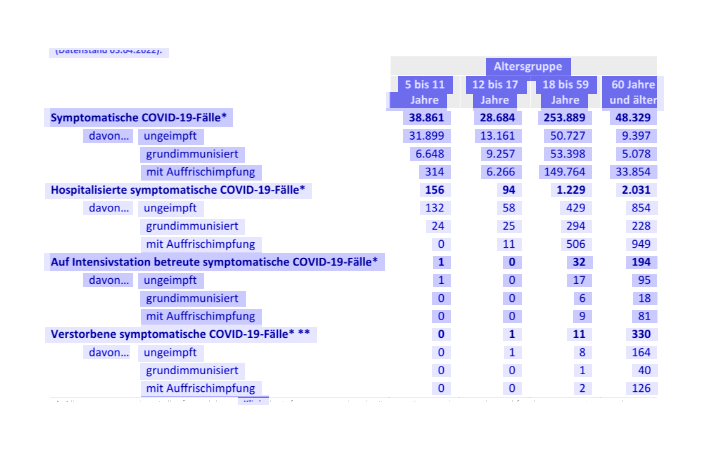
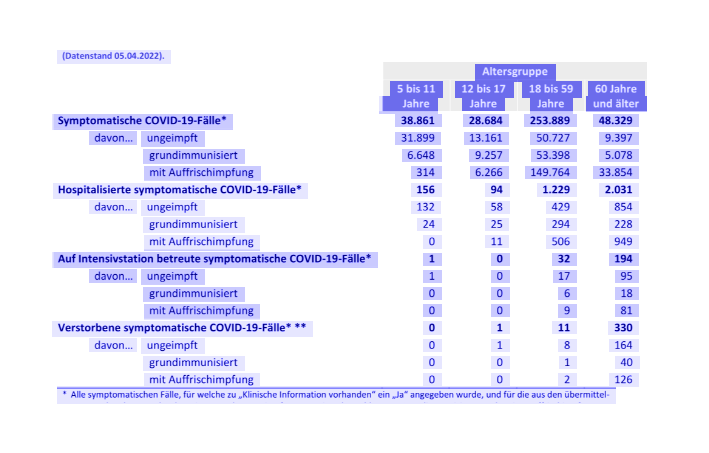
debug whiteborderremove

Changed region(s): [[0.0622, 0.1239, 0.9646, 0.8982], [0.0622, 0.0929, 0.2489, 0.1549]]

diff --git a/Development/functions.py b/Development/functions.py
@@ -557,22 +557,6 @@ def ImageRotate(image, angle):
         image, M, (new_w, new_h), borderValue=(255, 255, 255))
     return image_rotate
 
-
-def TiltCorrection(img):
-    '''
-    - input: the image we want to tilt correct, must be gray image
-    - output: the tilt corrected image
-
-    '''
-    angle = GetLineAngle(img)
-    if angle == 'nolines':  # if no lines in image, then use GetBoxAngle
-        angle = GetBoxAngle(img)
-
-    image_rotate = ImageRotate(img, angle)
-
-    return image_rotate
-
-
 def WhiteBordersRemove(gray_image):
     '''
     remove excess white edges of image
@@ -601,6 +585,25 @@ def WhiteBordersRemove(gray_image):
                             (x-thickness):(x+w+thickness)]
 
     return text_zone
+
+
+def TiltCorrection(img):
+    '''
+    - input: the image we want to tilt correct, must be gray image
+    - output: the tilt corrected image
+
+    '''
+    angle = GetLineAngle(img)
+    if angle == 'nolines':  # if no lines in image, then use GetBoxAngle
+        angle = GetBoxAngle(img)
+
+    image_rotate = ImageRotate(img, angle)
+
+    if abs(angle)>25:
+        image_rotate = WhiteBordersRemove(image_rotate)
+
+    return image_rotate
+
 
 
 def SizeNormalize(img):
@@ -1300,33 +1303,33 @@ def SaveTable(nummer, table, img_path):
 #---------------------------------------------------------------------------------------------------------------#
 
 
-def Main(img_path, model):
+def Main(img_path, model, error_info):
     start = time.time()
     try:
 
         image = cv2.imread(img_path, 0)
         image_rotate = TiltCorrection(image)  # got gray
-        text_zone = WhiteBordersRemove(image_rotate)  # got gray
+        # text_zone = WhiteBordersRemove(image_rotate)  # got gray
         img_3channel = cv2.cvtColor(
-            text_zone, cv2.COLOR_GRAY2BGR)  # gray to 3 channel
+            image_rotate, cv2.COLOR_GRAY2BGR)  # gray to 3 channel
 
         img_1024 = SizeNormalize(img_3channel)
 
         if __name__ == '__main__':
             plt.suptitle('Vorbreitung')
-            plt.subplot(141)
+            plt.subplot(131)
             plt.title('Original Image')
             plt.imshow(image, cmap='gray')
             plt.xticks([]), plt.yticks([])
-            plt.subplot(142)
+            plt.subplot(132)
             plt.title('Tilt Correction')
             plt.imshow(image_rotate, cmap='gray')
             plt.xticks([]), plt.yticks([])
-            plt.subplot(143)
-            plt.title('White Borders Remove')
-            plt.imshow(img_3channel)
-            plt.xticks([]), plt.yticks([])
-            plt.subplot(144)
+            # plt.subplot(143)
+            # plt.title('White Borders Remove')
+            # plt.imshow(img_3channel)
+            # plt.xticks([]), plt.yticks([])
+            plt.subplot(133)
             plt.title('Resize if not 1024x1024')
             plt.imshow(img_1024)
             plt.xticks([]), plt.yticks([])
@@ -1345,6 +1348,7 @@ def Main(img_path, model):
             SaveTable(nummer, table, img_path)
 
     except Exception as e:
+        error_info.append('ERROR: ' + ' ' + str(e) + ' ==> ' + str(img_path))
         print('ERROR: ' + ' ' + str(e) + ' ==> ' + str(img_path))
         end = time.time()
         print('runtime: %s' % (end - start))
@@ -1355,11 +1359,12 @@ def Main(img_path, model):
 
 
 if __name__ == '__main__':
-    img_path = 'Development\\imageTest\\test16.png'
+    img_path = 'Development\\imageTest\\test17.png'
 
     es.indices.delete(index='table', ignore=[400, 404])  # deletes whole index
 
-    Main(img_path, model='densenet')
+    error_info = []
+    Main(img_path, model='densenet', error_info=error_info)
     # model: 'tablenet', 'densenet' or 'unet'
 
     time.sleep(2)

diff --git a/Development/TableExtrakt.py b/Development/TableExtrakt.py
@@ -327,6 +327,7 @@ def ImageReformat(dir):
 
 def StapelVerbreitung(dir, model):
 
+    error_info = []
     image_list = GetImageList(dir)
     print('---------------------------')
     print('There are %s images in total. -- include unprocessed Pdfs.' %
@@ -337,8 +338,9 @@ def StapelVerbreitung(dir, model):
     path_images = [os.path.normpath(os.path.join(dir, fn))
                    for fn in image_list]
     for image in path_images:
-        Main(image, model)
+        Main(image, model, error_info)
     print('done')
+    print('ERROR ==>%s' %error_info)
 
 
 if __name__ == '__main__':
